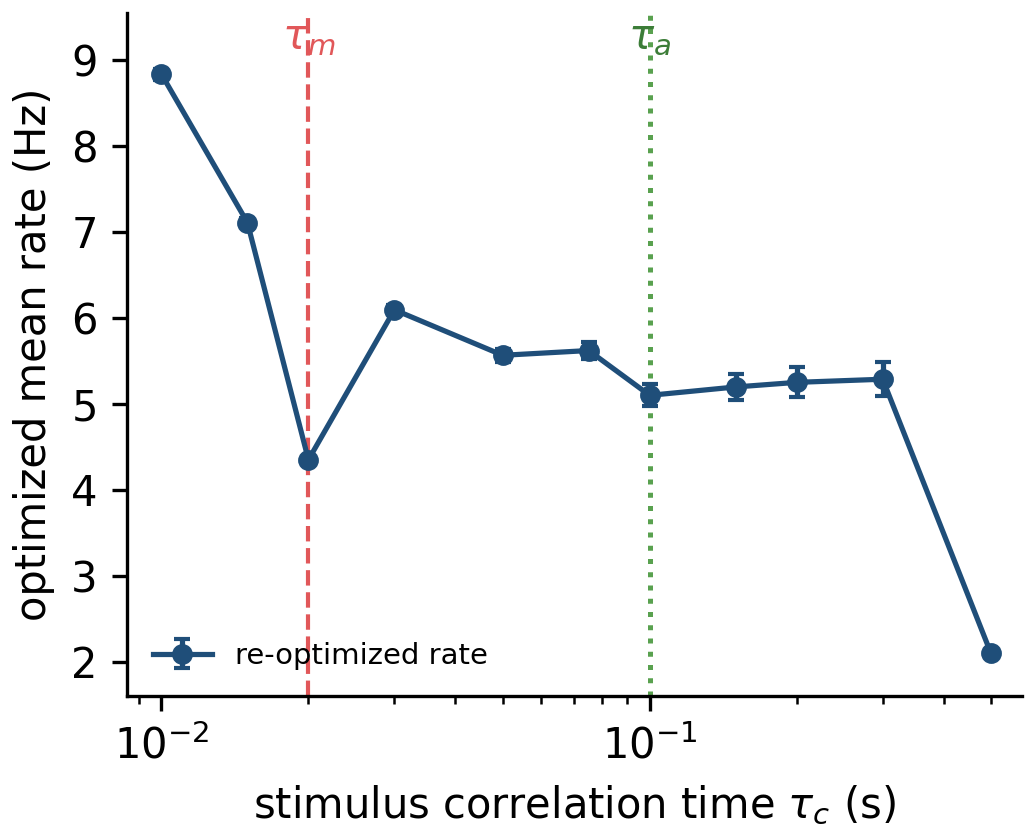
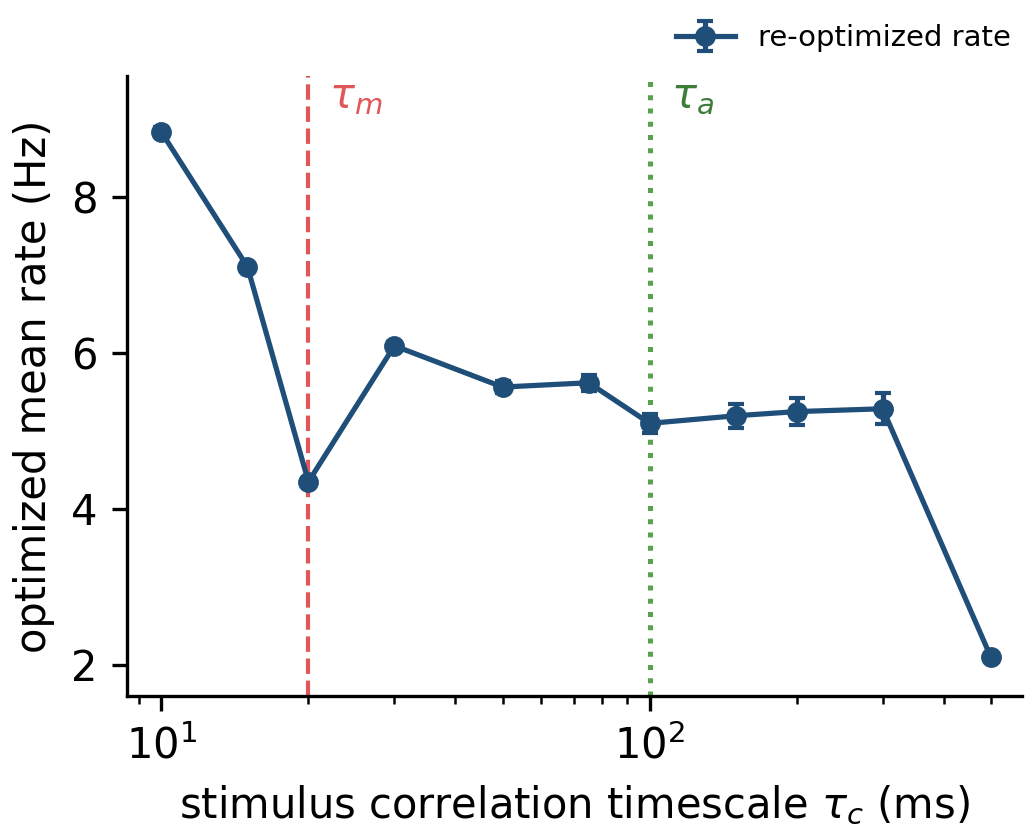
Use milliseconds in timescale sweep figure

diff --git a/code/scripts/plot_timescale_sweep.py b/code/scripts/plot_timescale_sweep.py
@@ -1,5 +1,5 @@
 #!/usr/bin/env python3
-"""Plot optimized rate across the dense stimulus-timescale sweep."""
+"""Plot optimized rate across the dense stimulus-timescale sweep in milliseconds."""
 
 from pathlib import Path
 
@@ -17,7 +17,7 @@ def main():
     fig, ax = plt.subplots(figsize=(3.45, 2.8), constrained_layout=True)
 
     ax.errorbar(
-        data["tau_c"],
+        1000.0 * data["tau_c"],
         data["rate_mean"],
         yerr=data["rate_std"],
         color="#1F4E79",
@@ -27,17 +27,39 @@ def main():
         capsize=2,
         label="re-optimized rate",
     )
-    ax.axvline(0.02, color="#E15759", linestyle="--", linewidth=1.0)
-    ax.axvline(0.10, color="#59A14F", linestyle=":", linewidth=1.2)
-    ax.text(0.02, 9.02, r"$\tau_m$", color="#E15759", ha="center", va="bottom")
-    ax.text(0.10, 9.02, r"$\tau_a$", color="#3C7D38", ha="center", va="bottom")
+    ax.axvline(20.0, color="#E15759", linestyle="--", linewidth=1.0)
+    ax.axvline(100.0, color="#59A14F", linestyle=":", linewidth=1.2)
+    ax.annotate(
+        r"$\tau_m$",
+        xy=(20.0, 9.02),
+        xytext=(5, 0),
+        textcoords="offset points",
+        color="#E15759",
+        ha="left",
+        va="bottom",
+    )
+    ax.annotate(
+        r"$\tau_a$",
+        xy=(100.0, 9.02),
+        xytext=(5, 0),
+        textcoords="offset points",
+        color="#3C7D38",
+        ha="left",
+        va="bottom",
+    )
 
     ax.set_xscale("log")
-    ax.set_xlim(0.0085, 0.58)
+    ax.set_xlim(8.5, 580.0)
     ax.set_ylim(1.6, 9.55)
-    ax.set_xlabel(r"stimulus correlation time $\tau_c$ (s)")
+    ax.set_xlabel(r"stimulus correlation timescale $\tau_c$ (ms)")
     ax.set_ylabel("optimized mean rate (Hz)")
-    ax.legend(frameon=False, loc="lower left", fontsize=7)
+    ax.legend(
+        frameon=False,
+        loc="lower right",
+        bbox_to_anchor=(1.0, 1.02),
+        borderaxespad=0,
+        fontsize=7,
+    )
     ax.spines[["top", "right"]].set_visible(False)
 
     FIGURES.mkdir(parents=True, exist_ok=True)
